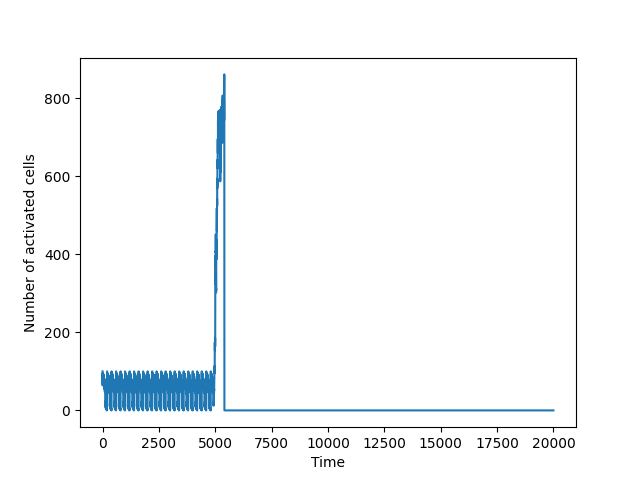
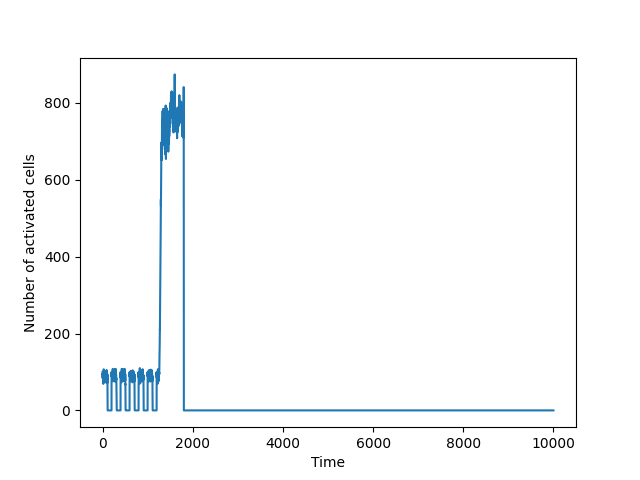
Hamming distance

diff --git a/Hexagon.py b/Hexagon.py
@@ -338,6 +338,15 @@ class HexagonalLattice():
                             re_sites[2] = i
                             self.AF_time = (max(j-100,1), j+100) #Increased the range from 30 to 100
                             #print(self.AF_time)  #Transition time range
+                            k = 9
+                            while k < j - self.AF_first_beat:
+                                new_time = j - k
+                                time_data = self.RefHistory[new_time*len(self.ref):(new_time+1)*len(self.ref)]
+                                activated_sites = np.where(time_data == 1)[0]
+                                if i in activated_sites:
+                                    Ham_dis = self.Hamming_distance(new_time)
+                                    print(Ham_dis)
+                                k += 1
                     if re_sites[3] == True:
                         if sites[i] == 3:
                             re_sites[3] = i
@@ -348,6 +357,14 @@ class HexagonalLattice():
                 else:
                     sites[i] = 1
         return re_sites
+
+    def Hamming_distance(self, AF_time):
+        time_data = self.RefHistory[AF_time*len(self.ref):(AF_time+1)*len(self.ref)]
+        activated_sites = np.where(time_data == 1)[0]
+        activated_sites_x = [self.index_to_xy(i)[0] for i in activated_sites]
+        x_mean = np.mean(activated_sites_x)
+        Ham_dis = np.sum((activated_sites_x-x_mean)**2)
+        return np.sqrt(Ham_dis)
 
     def Graph(self):
         f, ax = plt.subplots()

diff --git a/main.py b/main.py
@@ -190,12 +190,23 @@ def main():
         Animate(str(df['title'][i]),str(df['FullStateSave'][i]), df['location_2'][i], df['location_3'][i], df['location_4'][i], df['normal_modes_config'][i])'''
 
 
+
+def ham_dis_test(a):
+    print('A = ' + str(a))
+    lattice = InitialLattice(x = 1)
+    lattice.CouplingMethod([a,0.3,0.75])
+    run = lattice.RunIt()
+    if lattice.kill:
+        for i in range(50):
+            print(lattice.Hamming_distance(lattice.AF_time[1]-100-i), i)
+            
+
+
 if __name__ == '__main__':
     t0 = time.time()
-    main()
+    ham_dis_test(5)
     t1 = time.time()
     print(t1-t0)
-
 
 
 

diff --git a/configuration.py b/configuration.py
@@ -5,14 +5,14 @@ import numpy as np
 config = dict(
     width = 100,
     height = 100,
-    runtime = 20000,
+    runtime = 10000,
     threshold = 0.25,
     sigmoid_strength = 25,
     coupling = 0.55,
     refractory_period = 10,
     set_seed = 0, #0 if not setting, put number if you want to call a seed.
     normal_modes_config = [1, 0.1  ,0.9], #
-    graph = False ,
+    graph = True ,
     FullStateSave = False,      #Options r full (whole run), transition (one beat_period before AF, one beat_period after AF), False (Nothing saved)
     stats = False
  )
